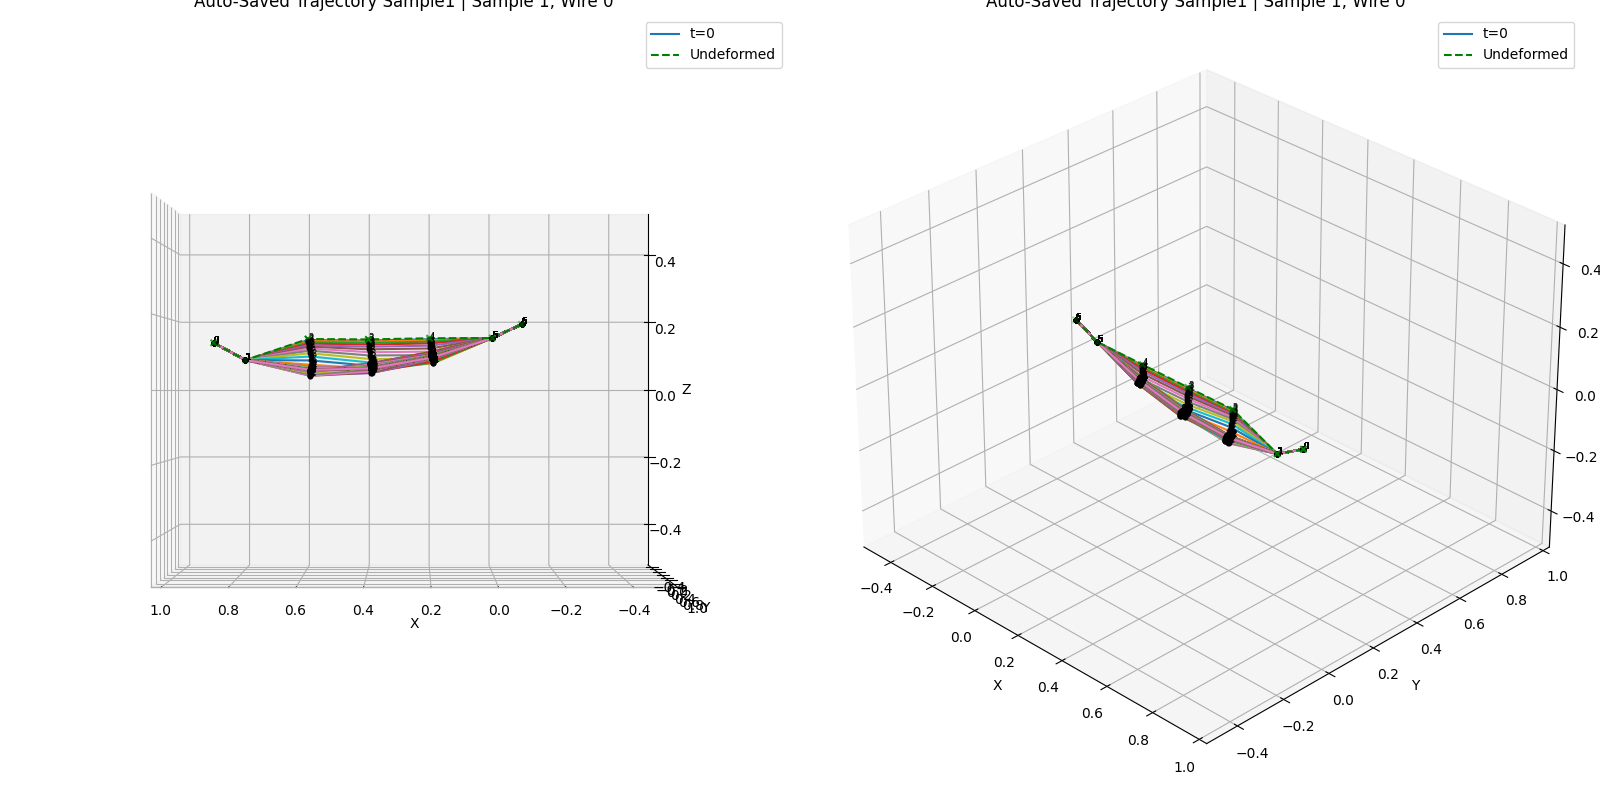
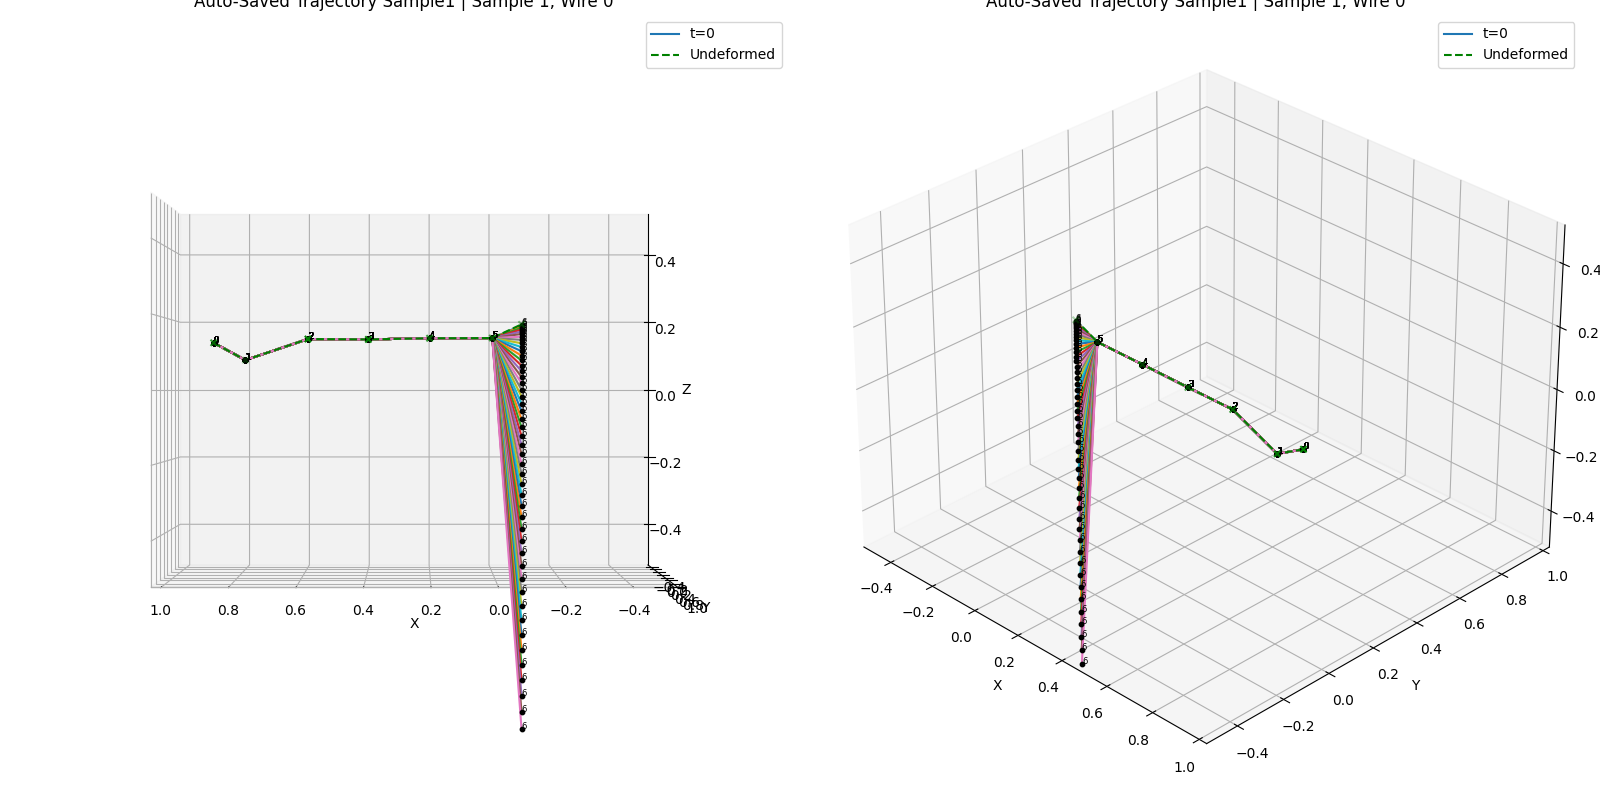
in procss of debugging clamp_index

Changed region(s): [[0.1562, 0.4062, 0.3438, 0.9062], [0.6562, 0.4062, 0.8125, 0.8125]]

diff --git a/constraints_solver.py b/constraints_solver.py
@@ -296,6 +296,9 @@ class constraints_enforcement(nn.Module):
 
             # l = 1 - 2L^2 / (L^2 + |edge|^2)
             l[mask] = 1 - 2 * nominal_length_square[mask, i] / denominator[mask]
+            if i == 5:
+                print('l mismatch is',l)
+
 
 
             # If all edges are within tolerance, skip
@@ -307,11 +310,11 @@ class constraints_enforcement(nn.Module):
             # l_cat used for scaling -> shape (batch,) -> repeated
 
 
-            # l_cat = (l.unsqueeze(-1).repeat(1, 2).view(-1) / scale[:, i])
-            scale_i = scale[:, i]  # this is actually per-vertex, shape (batch, 2)
-            scale_ip1 = scale[:, i + 1]
-            scale_edge = torch.stack([scale_i, scale_ip1], dim=1)  # shape: (batch, 2)
-            l_cat = (l.unsqueeze(-1).repeat(1, 2) / scale_edge).view(-1)
+            l_cat = (l.unsqueeze(-1).repeat(1, 2).view(-1) / scale[:, i])
+            # scale_i = scale[:, i]  # this is actually per-vertex, shape (batch, 2)
+            # scale_ip1 = scale[:, i + 1]
+            # scale_edge = torch.stack([scale_i, scale_ip1], dim=1)  # shape: (batch, 2)
+            # l_cat = (l.unsqueeze(-1).repeat(1, 2) / scale_edge).view(-1)
 
             # l_scale -> (batch,) -> expanded for each dimension
             l_scale = l_cat.unsqueeze(-1).unsqueeze(-1) * mass_scale[:, i]
@@ -332,8 +335,17 @@ class constraints_enforcement(nn.Module):
                     .repeat(1, 2, 1)
                     .view(-1, 3, 1)
             ).view(-1, 2, 3)
-            print('current_vertices[:, i]',  current_vertices[:, i])
-            print('current_vertices[:, i+1]', current_vertices[:, i+1])
+            # print('current_vertices[:, i]',  current_vertices[:, i])
+            # print('current_vertices[:, i+1]', current_vertices[:, i+1])
+            delta_i = current_vertices[:, i] - current_vertices_copy[:, i]
+            delta_i1 = current_vertices[:, i + 1] - current_vertices_copy[:, i + 1]
+            print("scale:", scale)
+
+            if not torch.isclose(delta_i, torch.zeros_like(delta_i), atol=1e-8).all():
+                print("delta vert i", delta_i)
+
+            if not torch.isclose(delta_i1, torch.zeros_like(delta_i1), atol=1e-8).all():
+                print("delta vert i+1", delta_i1)
             error = torch.norm(current_vertices[:, i + 1] - current_vertices[:, i], dim=-1) - nominal_length[:, i]
             print(f"Edge {i+1} error:", error.abs().mean())
 

diff --git a/DEFT_sim.py b/DEFT_sim.py
@@ -27,7 +27,7 @@ sys.path.append(module_dir)
 from GNN_tree import BatchedGNNModel
 from torch.autograd.profiler import record_function
 import time
-import gradient_saver
+# import gradient_saver
 
 class DEFT_sim(nn.Module):
     """
@@ -150,6 +150,7 @@ class DEFT_sim(nn.Module):
         # Expand clamped vertex selection for the parent across the batch
         batch_indices = self.selected_parent_index.unsqueeze(1).expand(-1, parent_clamped_selection.size(0))
         parent_indices = parent_clamped_selection.unsqueeze(0).expand(self.selected_parent_index.size(0), -1)
+        print('parent_indiices', parent_indices)
 
         # Child1/Child2 clamped indices
         batch_child1_indices = self.selected_child1_index
@@ -435,7 +436,6 @@ class DEFT_sim(nn.Module):
         )
 
 
-        self.bkgrad = gradient_saver.BackwardGradientIC(self.batch*self.n_branch,n_vert) # or n_branch * n_vert?
 
 
 
@@ -705,6 +705,7 @@ class DEFT_sim(nn.Module):
         forces = mass_matrix @ self.gravity.clone()
         # Mask out non-existent vertices
         forces[:, 1:] *= (1 - self.zero_mask.to(torch.uint8)).repeat(self.batch, 1).unsqueeze(-1)
+        print("External forces:", forces)
 
         return forces
 

diff --git a/Unit_test_sim.py b/Unit_test_sim.py
@@ -103,7 +103,7 @@ class Unit_test_sim(nn.Module):
         mass_scale2 = self.mass_matrix[:, :-1] @ torch.linalg.pinv(self.mass_matrix[:, 1:] + self.mass_matrix[:, :-1])
         self.mass_scale = torch.cat((mass_scale1, -mass_scale2), dim=1).view(-1, self.n_edge, 3, 3)
         self.constraints_enforcement = constraints_enforcement(n_branch)
-        self.clamped_index = torch.tensor([[1.0, 1,0,0,0.0, 1.0, 1.0]]) # hardcoded clamped index for the first vertex
+        self.clamped_index = torch.tensor([[1,1,1,1,1,1,0]]) # hardcoded clamped index for the first vertex
         self.inext_scale = self.clamped_index * (1e20)+1 # clamped points does not move
         self.n_branch=n_branch
         # self.damping = nn.Parameter(torch.tensor(0.1, device=device))  # damping factor

diff --git a/unit_test_train.py b/unit_test_train.py
@@ -19,7 +19,7 @@ n_branch = 1
 n_edge = n_vert - 1
 pbd_iter = 0
 device = "cpu"
-total_time = 400 # Total simulation time in seconds
+total_time = 50 # Total simulation time in seconds
 time_horizon = total_time-3
 eval_time_horizon = total_time - 2
 epochs = 1
